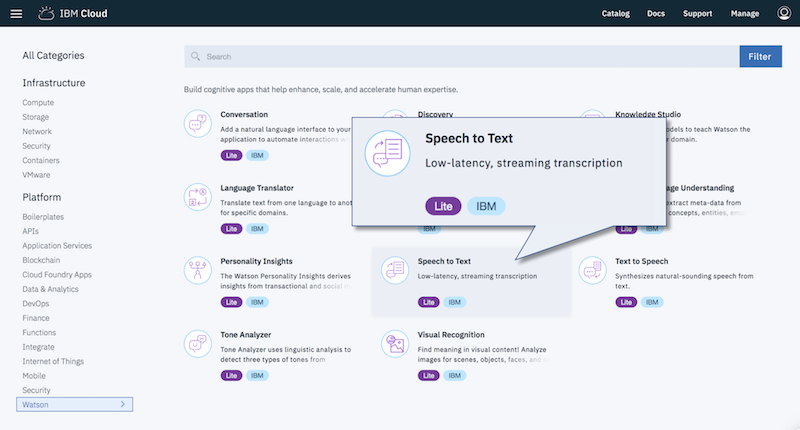
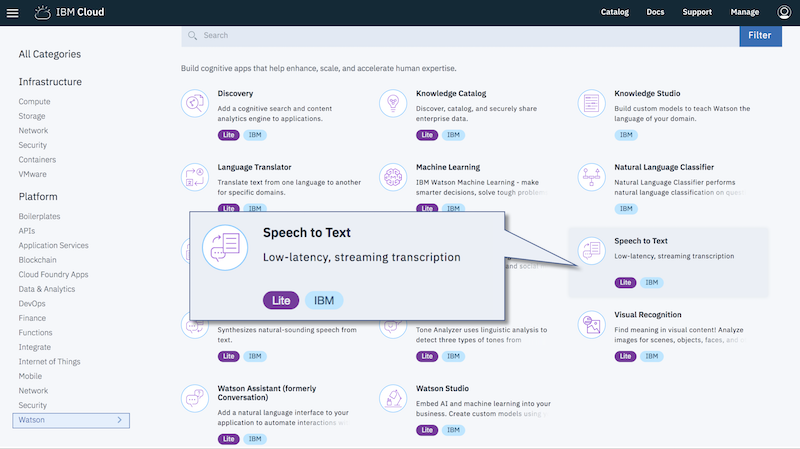
updated screenshots

Changed region(s): [[0.0, 0.1209, 1.0, 1.0], [0.0, 0.0907, 0.1562, 0.9674], [0.0, 0.0, 1.0, 0.1814]]

diff --git a/conversational-robot/nodejs/README.md b/conversational-robot/nodejs/README.md
@@ -86,7 +86,7 @@ This will instruct TJBot to start transcribing what is heard, calling the proces
     tj.listen(processText);    
     ```
 
-10. Next, we'll use the Watson Conversation service to analyze the text and respond, which requires service credentials from IBM Cloud. Return to the IBM Cloud dashboard catalog and create a **Watson Conversation** service.
+10. Next, we'll use the Watson Assistant (formerly Watson Conversation) service to analyze the text and respond, which requires service credentials from IBM Cloud. Return to the IBM Cloud dashboard catalog and create a **Watson Assistant (fomerly Conversation)** service.
 
     ![](assets/1.7.png)
 
@@ -94,7 +94,7 @@ This will instruct TJBot to start transcribing what is heard, calling the proces
 
     ![](assets/1.8.png)
 
-12. Click on the green button labeled **Launch Tool** to launch into the Conversation training tool.
+12. Click on the green button labeled **Launch Tool** to launch into the Watson Assistant training tool.
 
     ![](assets/1.9.png)
 
@@ -106,11 +106,11 @@ This will instruct TJBot to start transcribing what is heard, calling the proces
 
     ![](assets/1.11.png)    
 
-15. The workspace has been trained with Intents, Entities, and a Dialog of responses that provide a simple conversation that the user can ask TJBot. Explore the tabs and see how an example chatbot is designed in the Watson Conversation service.
+15. The workspace has been trained with Intents, Entities, and a Dialog of responses that provide a simple conversation that the user can ask TJBot. Explore the tabs and see how an example chatbot is designed in the Watson Assistant service.
 
     ![](assets/1.12.png)    
 
-    In order for TJBot to use the Watson Conversation service, we first need to get the service credentials and workspace ID. Click on the deploy button in the left sidebar.
+    In order for TJBot to use the Watson Assistant service, we first need to get the service credentials and workspace ID. Click on the deploy button in the left sidebar.
 
     ![](assets/1.13.png)    
 
@@ -136,7 +136,7 @@ This will instruct TJBot to start transcribing what is heard, calling the proces
 
     ![](assets/1.16.png)
 
-18. Replace the placeholder `/* Step #18 */` with the following code. This code will pass the text that was transcribed with the Watson Speech to Text service to the Watson Conversation service to understand and analyze.
+18. Replace the placeholder `/* Step #18 */` with the following code. This code will pass the text that was transcribed with the Watson Speech to Text service to the Watson Assistant service to understand and analyze.
 
     ```  
       tj.converse(workspaceId, text, response => {
@@ -236,7 +236,7 @@ This will instruct TJBot to start transcribing what is heard, calling the proces
         }
     ```
 
-25. Replace the placeholder `/* Step #25 */` with the following code. This code will combine the response from the Watson Conversation service and use the Watson Text to Speech service to speak out the response. When the text has been spoken out, TJBot will resume listening for another utterance, and repeat the cycle.
+25. Replace the placeholder `/* Step #25 */` with the following code. This code will combine the response from the Watson Assistant service and use the Watson Text to Speech service to speak out the response. When the text has been spoken out, TJBot will resume listening for another utterance, and repeat the cycle.
 
     ```
         tj.speak(response.object.output.text.join(" ")).then(() => {
@@ -244,7 +244,7 @@ This will instruct TJBot to start transcribing what is heard, calling the proces
         });
     ```
 
-26. Run the code. Speak a phrase. TJBot will transcribe the audio with the Watson Speech to Text service, analyze the utterance with the Watson Conversation service, and speak out the response using the Watson Text to Speech service.    
+26. Run the code. Speak a phrase. TJBot will transcribe the audio with the Watson Speech to Text service, analyze the utterance with the Watson Assistant service, and speak out the response using the Watson Text to Speech service.    
 
 
 ## Running on the Raspberry Pi
